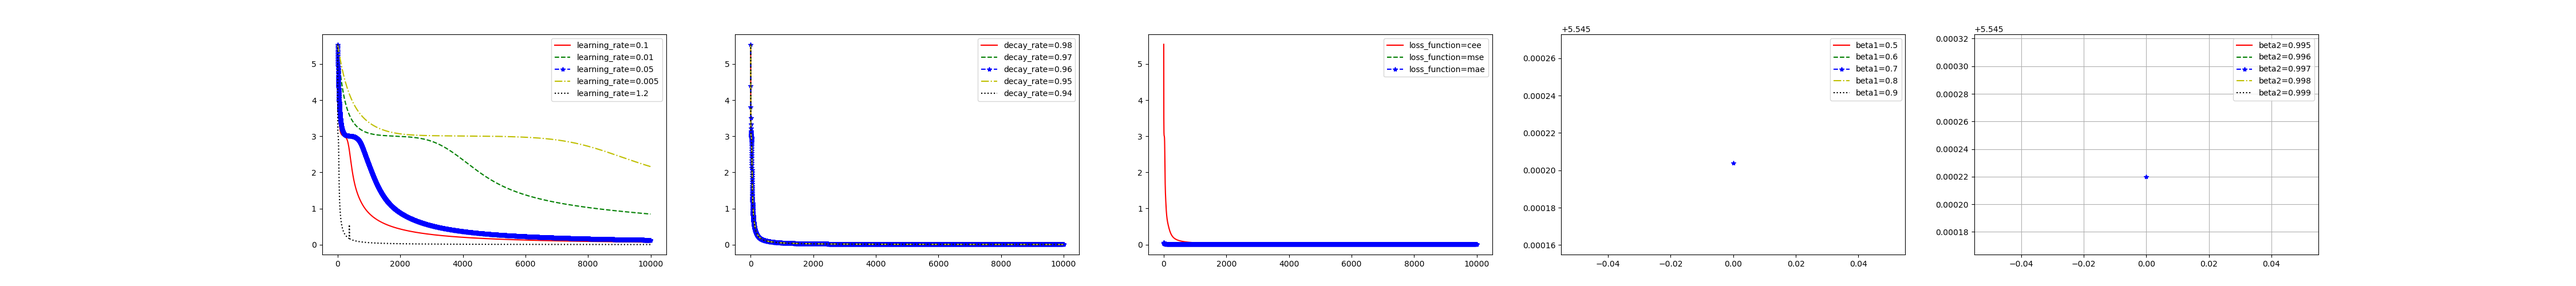
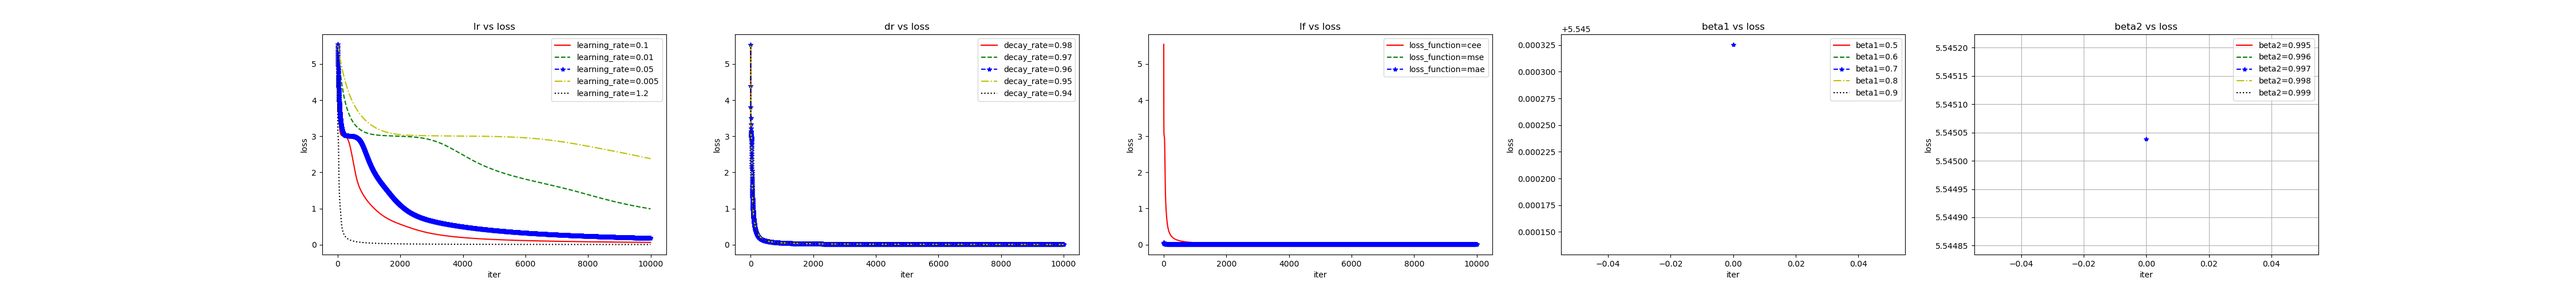
modified:   Lab-NN/lhr_origin/__pycache__/train.cpython-310.pyc 	modified:   Lab-NN/lhr_origin/__pycache__/utils.cpython-310.pyc 	modified:   Lab-NN/lhr_origin/figs/all.png 	modified:   Lab-NN/lhr_origin/main.py 	modified:   Lab-NN/lhr_origin/train.py 	modified:   Lab-NN/lhr_origin/utils.py

diff --git a/Lab-NN/lhr_origin/utils.py b/Lab-NN/lhr_origin/utils.py
@@ -1,6 +1,6 @@
 import numpy as np
 import matplotlib.pyplot as plt
-from train import train
+from train import train,train_with_batch_change
 import math
 import model
 
@@ -233,7 +233,7 @@ class TUNING():
 		self.losses_all_beta1 = []
 		self.losses_all_beta2 = []
 		self.losses_all_batch_size = []
-		self.fig, self.axs = plt.subplots(1,5,figsize=(45,5))
+		self.fig, self.axs = plt.subplots(1,6,figsize=(45,5))
 		
 	
 	def lr_tuning(self):
@@ -260,6 +260,9 @@ class TUNING():
 				self.axs[0].plot(loss,color='k',linestyle=':',label='learning_rate='+str(self.learning_rates[i-1]))						
 			self.axs[0].legend(loc="upper right")
 		# plot('F:/Python-project/Python-Basic-Practise/Lab-NN/lhr_origin/figs/l_r')
+		self.axs[0].set_xlabel('iter')
+		self.axs[0].set_ylabel('loss')
+		self.axs[0].set_title('lr vs loss')
 
 	def decay_tuning(self):
 		#学习率衰减调参
@@ -285,6 +288,9 @@ class TUNING():
 				self.axs[1].plot(loss,color='k',linestyle=':',label='decay_rate='+str(self.decay_rates[i-1]))						
 			self.axs[1].legend(loc="upper right")
 		# plot('F:/Python-project/Python-Basic-Practise/Lab-NN/lhr_origin/figs/d_r')
+		self.axs[1].set_xlabel('iter')
+		self.axs[1].set_ylabel('loss')
+		self.axs[1].set_title('dr vs loss')
 
 	def loss_function_tuning(self):
 		#损失函数调参
@@ -306,6 +312,9 @@ class TUNING():
 				self.axs[2].plot(loss,color='b',linestyle='--',marker='*',label='loss_function='+self.loss_functions[i-1])					
 			self.axs[2].legend(loc="upper right")
 		# plot('F:/Python-project/Python-Basic-Practise/Lab-NN/lhr_origin/figs/l_f')
+		self.axs[2].set_xlabel('iter')
+		self.axs[2].set_ylabel('loss')
+		self.axs[2].set_title('lf vs loss')
 
 	def beta1_tuning(self):
 		#Adam优化器beta1调参
@@ -331,6 +340,9 @@ class TUNING():
 				self.axs[3].plot(loss,color='k',linestyle=':',label='beta1='+str(self.beta1_rates[i-1]))						
 			self.axs[3].legend(loc="upper right")
 		# plot('F:/Python-project/Python-Basic-Practise/Lab-NN/lhr_origin/figs/beta1')
+		self.axs[3].set_xlabel('iter')
+		self.axs[3].set_ylabel('loss')
+		self.axs[3].set_title('beta1 vs loss')
 
 	def beta2_tuning(self):
 		#Adam优化器beta2调参
@@ -356,7 +368,9 @@ class TUNING():
 				self.axs[4].plot(loss,color='k',linestyle=':',label='beta2='+str(self.beta2_rates[i-1]))						
 			self.axs[4].legend(loc="upper right")
 		# plot('F:/Python-project/Python-Basic-Practise/Lab-NN/lhr_origin/figs/beta2')
-		plot('F:/Python-project/Python-Basic-Practise/Lab-NN/lhr_origin/figs/all')
+		self.axs[4].set_xlabel('iter')
+		self.axs[4].set_ylabel('loss')
+		self.axs[4].set_title('beta2 vs loss')
 
 	# def batch_tuning(self):
 	# 	num_epochs = 10000
@@ -392,3 +406,29 @@ class TUNING():
 	# 			plt.plot(costs,color='y',linestyle='-.',label='batch_size='+str(self.batch_sizes[i-1]))
 		
 	# 	plot('F:/Python-project/Python-Basic-Practise/Lab-NN/lhr_origin/figs/batch_size')
+
+	def batch_tuning(self):
+		#batch_size调参
+		print("start computing loss with batch_size change")
+		for batch_size in self.batch_sizes:
+			losses = []
+			print("start training with batch_size = " + str(batch_size))
+			train_with_batch_change(self.x,self.y,10,1.2,losses,batch_size)
+			self.losses_all_beta2.append(losses)
+		i = 0
+		print("start ploting loss with batch_size change")
+		for loss in self.losses_all_beta2:
+			i += 1
+			if (i==1):
+				self.axs[5].plot(loss,color='r',label='batch_size='+str(self.batch_sizes[i-1]))
+			elif(i==2):
+				self.axs[5].plot(loss,color='g',linestyle='--',label='batch_size='+str(self.batch_sizes[i-1]))
+			elif(i==3):
+				self.axs[5].plot(loss,color='b',linestyle='--',marker='*',label='batch_size='+str(self.batch_sizes[i-1]))
+			elif(i==4):
+				self.axs[5].plot(loss,color='y',linestyle='-.',label='batch_size='+str(self.batch_sizes[i-1]))					
+			self.axs[5].legend(loc="upper right")
+		self.axs[5].set_xlabel('iter')
+		self.axs[5].set_ylabel('loss')
+		self.axs[5].set_title('batch_size vs loss')
+		plot('F:/Python-project/Python-Basic-Practise/Lab-NN/lhr_origin/figs/all')

diff --git a/Lab-NN/lhr_origin/train.py b/Lab-NN/lhr_origin/train.py
@@ -52,3 +52,34 @@ def train(X, Y, epoch, learning_rate, decay_rate, loss_function, OPTIMIZER, beta
     print(df)
     return parameters, losses
 
+def train_with_batch_change(X,Y,epoch,learning_rate, losses,batch_size):
+    parameters = model.NeutralNetwork().initialize_parameters()
+    m = X.shape[1] # 样本数量
+
+    #开始循环(梯度下降) 无正则
+    for i in range(epoch):
+        #将数据随机打乱
+        permutation = list(np.random.permutation(m))
+        shuffled_X = X[:, permutation]
+        shuffled_Y = Y[:, permutation]
+
+        #分成多个小批量进行训练
+        num_batches = m // batch_size
+        for j in range(num_batches):
+            #获取当前小批量的数据
+            start = j * batch_size
+            end = (j + 1) * batch_size
+            mini_batch_X = shuffled_X[:,start:end]
+            mini_batch_Y = shuffled_Y[:,start:end]
+            #前向传播
+            A2, cache = model.NeutralNetwork().forward_propagation(mini_batch_X, parameters)
+            #计算成本
+            cost = model.NeutralNetwork().compute_cost(A2, Y, 'cee')
+            #反向传播
+            grads = model.NeutralNetwork().backward_propagation(X, Y, cache, parameters) 
+            #更新参数
+            parameters = model.NeutralNetwork().update_parameters(parameters, grads, learning_rate)
+            losses.append(cost)
+
+            print("Cost after epoch %i: %f" % (i, cost))
+    return parameters,losses

diff --git a/Lab-NN/lhr_origin/main.py b/Lab-NN/lhr_origin/main.py
@@ -8,6 +8,7 @@ if __name__ == "__main__":
 	lab_nn.loss_function_tuning()
 	lab_nn.beta1_tuning()
 	lab_nn.beta2_tuning()
+	lab_nn.batch_tuning()
 
 
 
